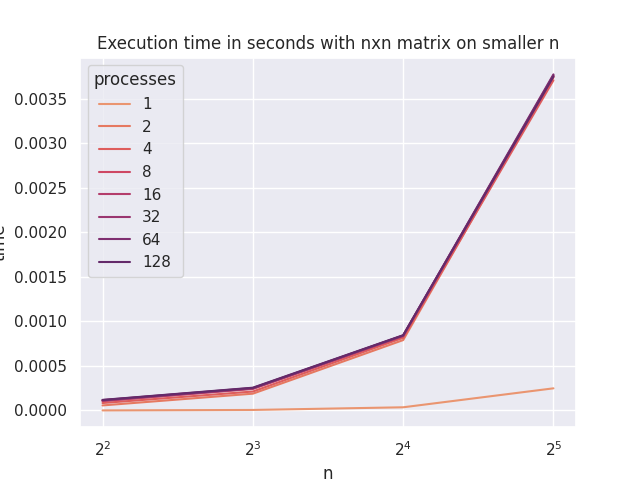
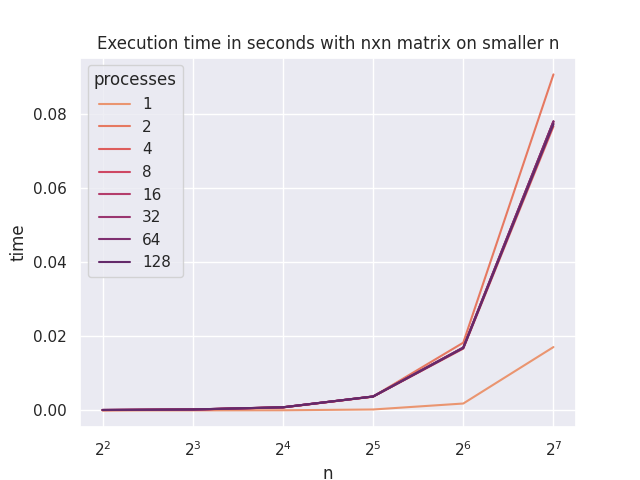
latest results

diff --git a/create_graphs.py b/create_graphs.py
@@ -10,7 +10,7 @@ if __name__ == '__main__':
 
     data_openmp = pd.read_csv('openmp/data/polus/data.csv', sep='\t')
     data_openmp = data_openmp[data_openmp['n'] > 2]
-    small_data = data_openmp[data_openmp['n'] < 2 ** 6]
+    small_data = data_openmp[data_openmp['n'] < 2 ** 8]
     big_data = data_openmp[data_openmp['n'] > 2 ** 7]
 
     palette = sns.color_palette("flare", 7)
@@ -46,7 +46,7 @@ if __name__ == '__main__':
 
     data_mpi = pd.read_csv('mpi/data/polus/data.csv', sep='\t')
     data_mpi = data_mpi[data_mpi['n'] > 2]
-    small_data = data_mpi[data_mpi['n'] < 2 ** 6]
+    small_data = data_mpi[data_mpi['n'] < 2 ** 8]
     big_data = data_mpi[data_mpi['n'] > 2 ** 7]
 
     palette = sns.color_palette("flare", 7)
@@ -82,7 +82,7 @@ if __name__ == '__main__':
 
     data_mpi = pd.read_csv('mpi/data/bluegene/data.csv', sep='\t')
     data_mpi = data_mpi[data_mpi['n'] > 2]
-    small_data = data_mpi[data_mpi['n'] < 2 ** 6]
+    small_data = data_mpi[data_mpi['n'] < 2 ** 8]
     big_data = data_mpi[data_mpi['n'] > 2 ** 7]
 
     palette = sns.color_palette("flare", 8)
